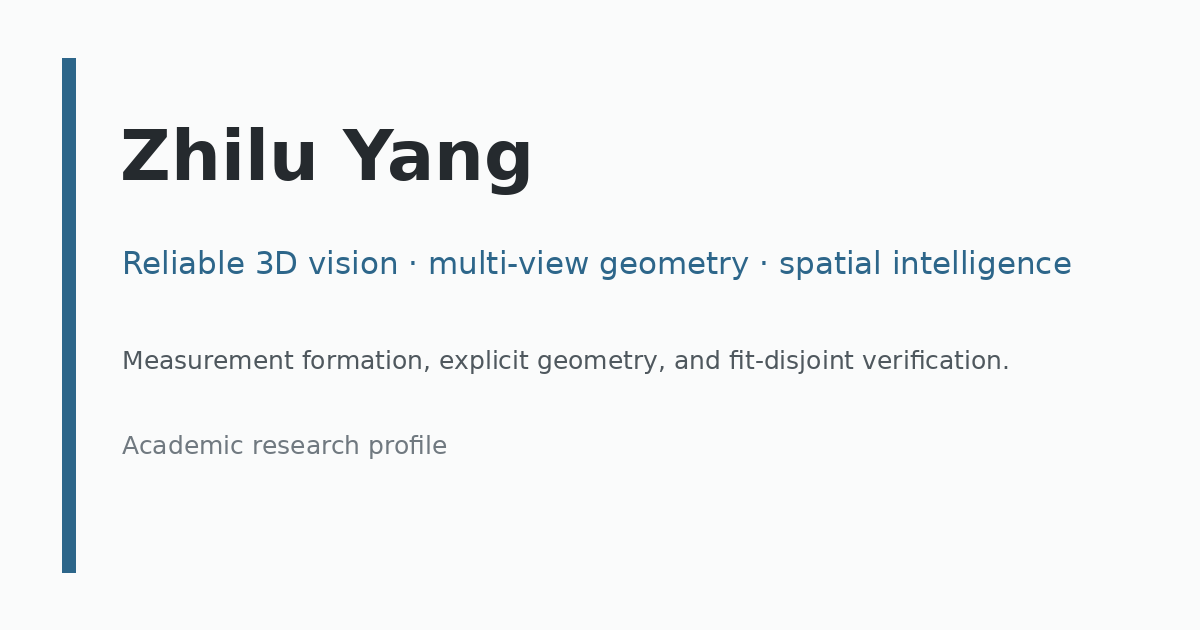
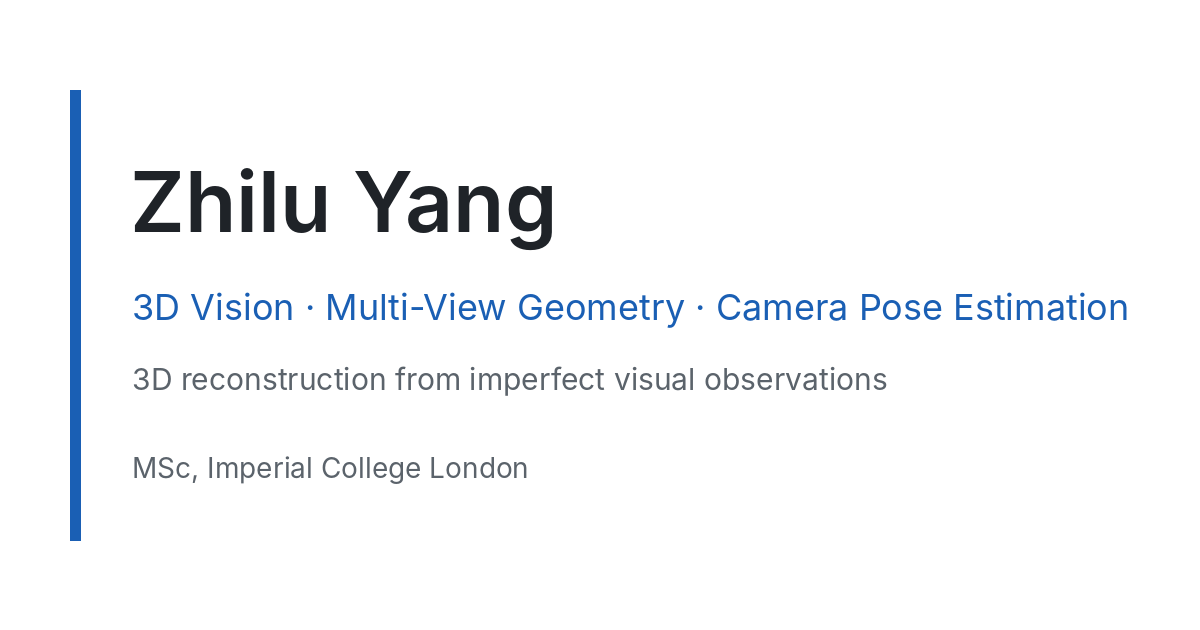
Update link preview card

Changed region(s): [[0.0308, 0.0905, 0.9558, 0.9048]]

diff --git a/index.html b/index.html
@@ -12,7 +12,7 @@
   <meta property="og:title" content="Zhilu Yang | 3D Vision">
   <meta property="og:description" content="3D reconstruction, multi-view geometry and camera pose estimation.">
   <meta property="og:url" content="https://ada-zy2425.github.io/">
-  <meta property="og:image" content="https://ada-zy2425.github.io/assets/og-card.png">
+  <meta property="og:image" content="https://ada-zy2425.github.io/assets/og-card.png?v=2">
   <link rel="icon" href="data:,">
 </head>
 <body>
